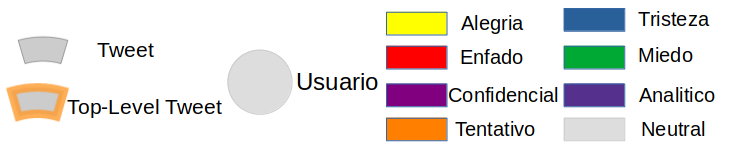
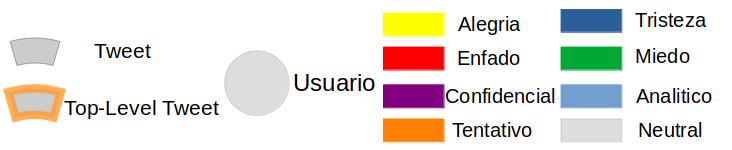
add legend

diff --git a/js/forumVis.js b/js/forumVis.js
@@ -1223,7 +1223,7 @@ COLLECTIVEI.CHART.WIDGET.forumVisWidget = function (options) {
         },
         _drawLegend:function(){
           var self = this;
-          var height = self.settings.legendHeight*0.8;
+          var height = self.settings.legendHeight*1.1;
           var legendContainer = self.chart.append('g').attr('transform','translate(50,'+(self.chartHeight-self.settings.legendHeight)+')' );
               legendContainer.append("svg:image")
                .attr('x',200)
